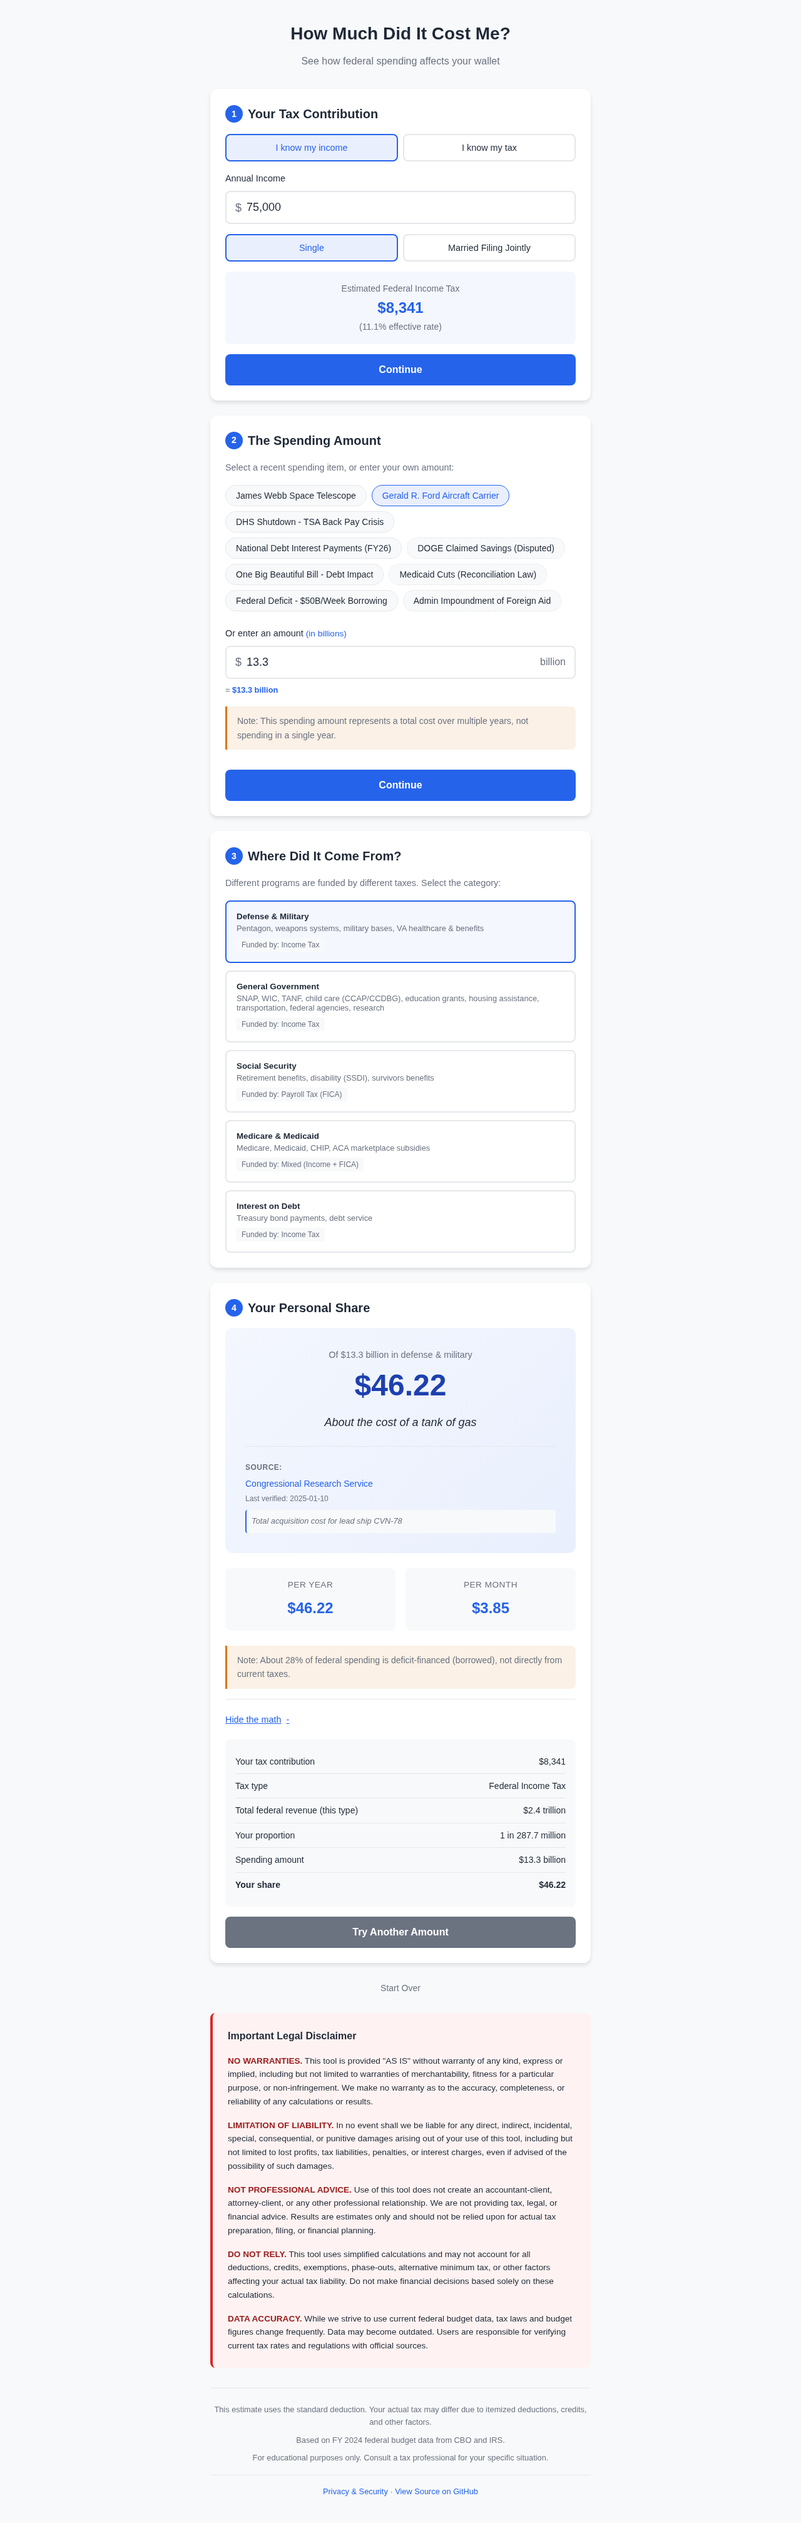
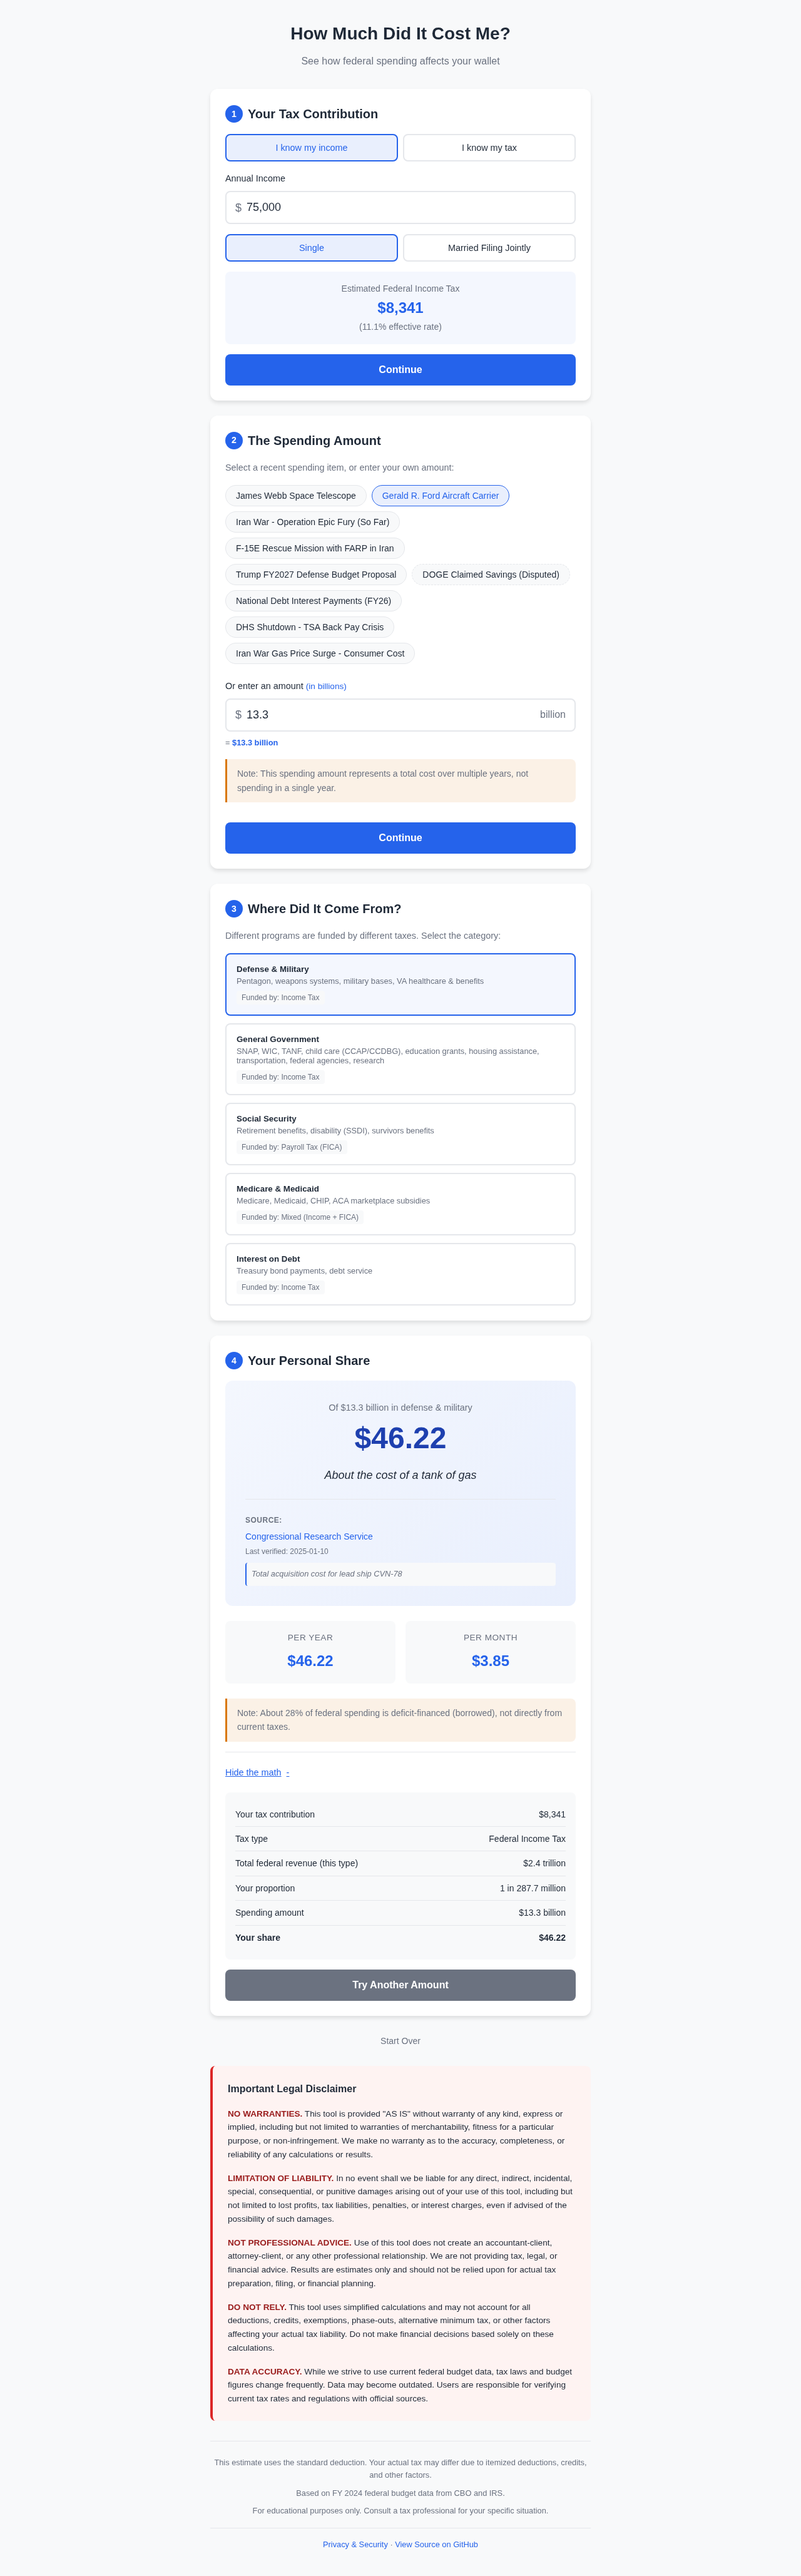
Weekly trending spending update - April 6, 2026 (#64)
Focus on Iran War (Operation Epic Fury) and F-15E rescue mission with
FARP deep inside Iran. Updated all 7 trending items with current news.

Changed region(s): [[0.2812, 0.0312, 0.7188, 0.9688]]

diff --git a/js/data.js b/js/data.js
@@ -155,70 +155,68 @@ const PERMANENT_SPENDING = {
 // The workflow searches for spending scandals, controversies, and hot topics
 const TRENDING_SPENDING = {
   trending1: {
-    label: 'DHS Shutdown - TSA Back Pay Crisis',
-    value: 1_000_000_000,            // ~$1 billion (unpaid TSA wages during DHS shutdown)
-    source: 'TSA Congressional Testimony / TheStreet',
-    sourceUrl: 'https://www.tsa.gov/news/press/testimony/2026/03/25/oversight-hearing-dhs-shutdown-impacts',
-    lastVerified: '2026-03-30',
+    label: 'Iran War - Operation Epic Fury (So Far)',
+    value: 45_000_000_000,           // ~$45 billion (direct military + economic costs through April 4)
+    source: 'CSIS / Pentagon / European Business Magazine',
+    sourceUrl: 'https://www.csis.org/analysis/iran-war-cost-estimate-update-113-billion-day-6-165-billion-day-12',
+    lastVerified: '2026-04-06',
     category: 'defense',
-    notes: 'DHS shutdown since Feb 14; 61,000 TSA workers unpaid; 480+ officers lost; 4.5-hour airport waits; 500% increase in officer assaults'
+    notes: 'Operation Epic Fury began Feb 28; $11.3B in first 6 days; burning ~$1-2B/day; 13 US service members killed; Penn Wharton projects $65B if war continues; Brent crude up 55%+'
   },
   trending2: {
+    label: 'F-15E Rescue Mission with FARP in Iran',
+    value: 2_000_000_000,            // ~$2 billion (estimated cost of rescue including lost aircraft)
+    source: 'Defence Security Asia / The Aviationist / Washington Post',
+    sourceUrl: 'https://defencesecurityasia.com/en/us-2-billion-burned-iran-f15e-rescue-mission-hc130-helicopter-losses/',
+    lastVerified: '2026-04-06',
+    category: 'defense',
+    notes: 'Costliest rescue mission in history; FARP set up deep inside Iran near Isfahan; lost F-15E, 2 MC-130Js, MH-6 Little Birds, A-10; WSO evaded capture 24+ hours in mountains; 160th SOAR Night Stalkers deployed'
+  },
+  trending3: {
+    label: 'Trump FY2027 Defense Budget Proposal',
+    value: 1_500_000_000_000,        // $1.5 trillion (proposed FY2027 defense budget)
+    source: 'NPR / Breaking Defense / Washington Post',
+    sourceUrl: 'https://www.npr.org/2026/04/03/nx-s1-5772701/trump-budget-defense-spending',
+    lastVerified: '2026-04-06',
+    category: 'defense',
+    notes: 'Largest defense request in history; 44% increase over FY26; $1.15T base + $350B reconciliation; first time base budget exceeds $1T; accompanied by 10% nondefense cuts'
+  },
+  trending4: {
+    label: 'DOGE Claimed Savings (Disputed)',
+    value: 214_000_000_000,          // $214 billion (DOGE claimed savings as of April 2026)
+    source: 'DOGE.gov / CBS News',
+    sourceUrl: 'https://doge.gov/savings',
+    lastVerified: '2026-04-06',
+    category: 'general',
+    notes: 'DOGE claims $214B saved (~$1,400/taxpayer); CBS analysis finds cuts actually cost $135B; 13,440 contract + 15,887 grant terminations; Musk dropped goal from $2T to $150B',
+    isSavings: true
+  },
+  trending5: {
     label: 'National Debt Interest Payments (FY26)',
     value: 1_040_000_000_000,        // $1.04 trillion (projected FY2026 net interest)
     source: 'Congressional Budget Office / Peter G. Peterson Foundation',
     sourceUrl: 'https://www.pgpf.org/programs-and-projects/fiscal-policy/monthly-interest-tracker-national-debt/',
-    lastVerified: '2026-03-30',
+    lastVerified: '2026-04-06',
     category: 'interest',
-    notes: 'First time exceeding $1T; tripled since 2020; $7,700 per household; will surpass Medicare spending by FY2028'
-  },
-  trending3: {
-    label: 'DOGE Claimed Savings (Disputed)',
-    value: 215_000_000_000,          // $215 billion (DOGE claimed savings as of Jan 2026)
-    source: 'DOGE.gov / NPR / Yahoo News',
-    sourceUrl: 'https://doge.gov/savings',
-    lastVerified: '2026-03-30',
-    category: 'general',
-    notes: 'DOGE claims $215B saved; NPR analysis finds ~$2B verifiable; independent estimate says cuts cost $135B; 40% of listed contracts already fulfilled',
-    isSavings: true
-  },
-  trending4: {
-    label: 'One Big Beautiful Bill - Debt Impact',
-    value: 4_100_000_000_000,        // $4.1 trillion (added to national debt over 10 years)
-    source: 'Congressional Budget Office',
-    sourceUrl: 'https://www.cbo.gov/publication/61459',
-    lastVerified: '2026-03-30',
-    category: 'general',
-    notes: 'CBO dynamic score: $4.7T with economic effects; includes $5.9T in tax cuts offset by $2.5T in cuts; signed July 4, 2025; double the size of American Rescue Plan'
-  },
-  trending5: {
-    label: 'Medicaid Cuts (Reconciliation Law)',
-    value: 1_035_000_000_000,        // $1.035 trillion (10-year Medicaid spending reduction)
-    source: 'Georgetown CCF / Congressional Budget Office',
-    sourceUrl: 'https://ccf.georgetown.edu/2025/07/22/medicaid-chip-and-affordable-care-act-marketplace-cuts-and-other-health-provisions-in-the-budget-reconciliation-law-explained/',
-    lastVerified: '2026-03-30',
-    category: 'medicare',
-    notes: 'CBO: 11.8M lose coverage; work requirements take effect Dec 2026; 6-month redeterminations start Oct 2026; projected 1.22M job losses',
-    isSavings: true
+    notes: 'First time exceeding $1T; tripled since 2020; $7,700 per household; will surpass Medicare spending by FY2028; debt past $39T'
   },
   trending6: {
-    label: 'Federal Deficit - $50B/Week Borrowing',
-    value: 1_900_000_000_000,        // $1.9 trillion (projected FY2026 deficit)
-    source: 'CBO Monthly Budget Review / CRFB',
-    sourceUrl: 'https://www.crfb.org/press-releases/cbo-estimates-1-trillion-deficit-first-five-months-fy-2026',
-    lastVerified: '2026-03-30',
-    category: 'general',
-    notes: 'Already $1T deficit in first 5 months; borrowing $50B/week; $308B in February alone; debt hit $39T on March 17'
+    label: 'DHS Shutdown - TSA Back Pay Crisis',
+    value: 1_000_000_000,            // ~$1 billion (unpaid TSA wages during DHS shutdown)
+    source: 'TSA Congressional Testimony / TheStreet',
+    sourceUrl: 'https://www.tsa.gov/news/press/testimony/2026/03/25/oversight-hearing-dhs-shutdown-impacts',
+    lastVerified: '2026-04-06',
+    category: 'defense',
+    notes: 'DHS shutdown since Feb 14; 61,000 TSA workers unpaid; 480+ officers lost; 4.5-hour airport waits; only unfunded department while Iran war rages'
   },
   trending7: {
-    label: 'Admin Impoundment of Foreign Aid',
-    value: 5_000_000_000,            // ~$5 billion (withheld foreign assistance funds)
-    source: 'Center on Budget and Policy Priorities',
-    sourceUrl: 'https://www.cbpp.org/research/federal-budget/2026-appropriations-must-protect-against-further-partisan-cuts-and-illegal',
-    lastVerified: '2026-03-30',
+    label: 'Iran War Gas Price Surge - Consumer Cost',
+    value: 150_000_000_000,          // ~$150 billion (estimated annualized extra consumer fuel cost)
+    source: 'CNBC / Center for American Progress / PBS',
+    sourceUrl: 'https://www.americanprogress.org/article/the-war-in-iran-will-raise-fuel-prices-and-costs-throughout-the-economy/',
+    lastVerified: '2026-04-06',
     category: 'general',
-    notes: 'Admin used pocket rescission to withhold ~$5B in foreign aid; first partisan use of Impoundment Control Act; constitutional controversy over executive spending authority',
-    isSavings: true
+    notes: 'Gas hit $4/gal nationally (up $1+ since Feb 28); diesel at $5.45 (up 45%); Strait of Hormuz disrupted; analysts warn Brent could hit $120-200/barrel; recession fears mounting'
   }
 };
 
